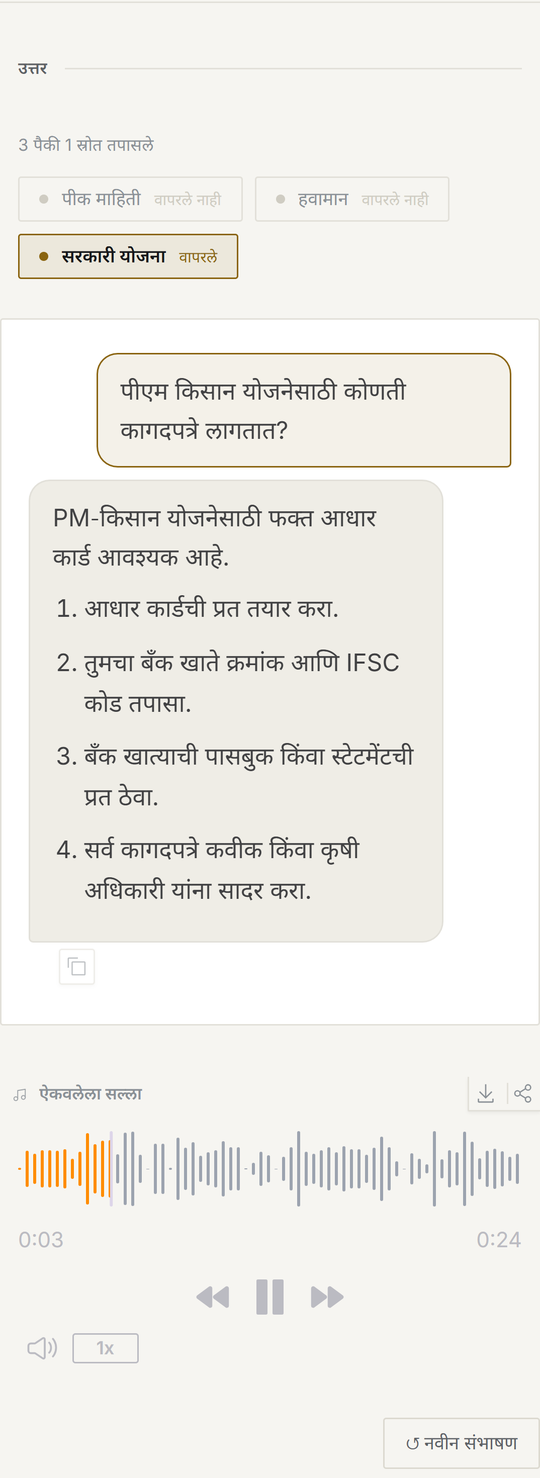
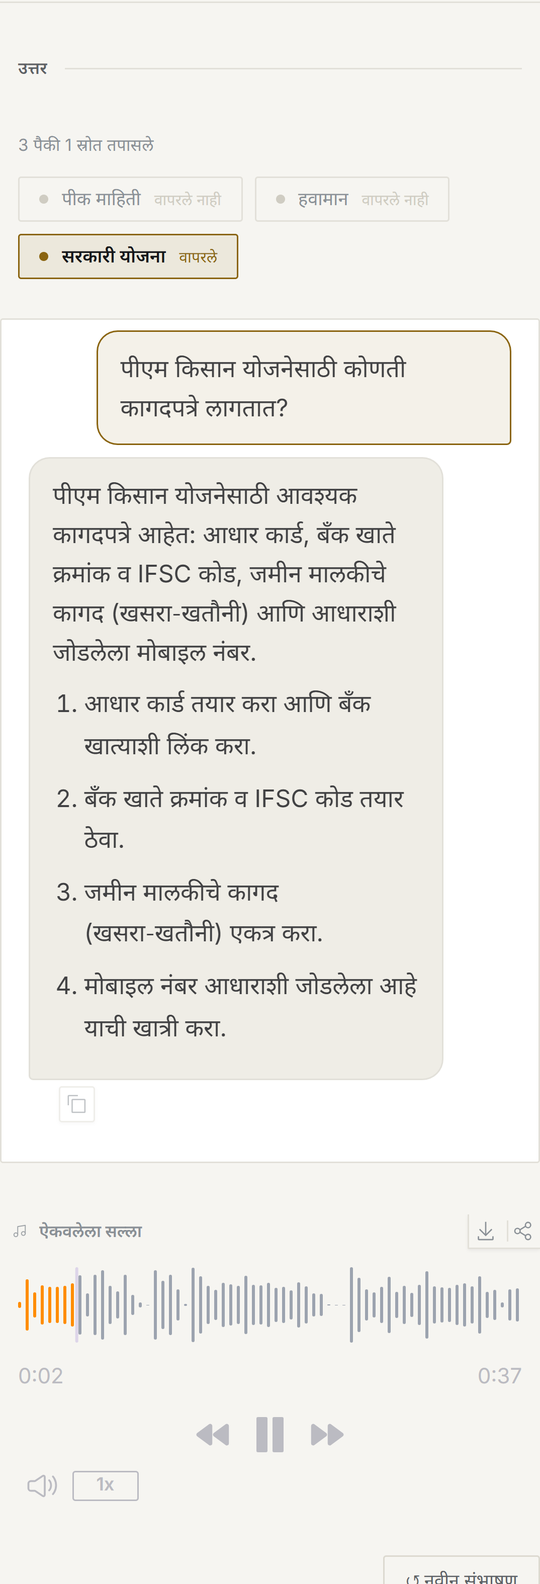
README: show the live app as it really looks
The banner was a custom graphic and the screenshots came from a local full build. Replace them with unedited captures of the Render site — light English, dark Hindi and a phone in Marathi.

diff --git a/README.md b/README.md
@@ -1,6 +1,4 @@
-<p align="center">
-  <img src="assets/banner.svg" alt="Multilingual Agri AI Agent — speak a farming question, hear grounded advice back in your language" width="100%">
-</p>
+<h1 align="center">🌾 Multilingual Agri AI Agent</h1>
 
 <p align="center">
   <a href="https://multilingual-agri-ai-agent.onrender.com"><img alt="Live demo" src="https://img.shields.io/badge/%E2%96%B6%20Live%20demo-Render-D9A441?style=for-the-badge&labelColor=08090A"></a>
@@ -34,6 +32,11 @@
   <a href="#-engineering-notes">Engineering notes</a>
 </p>
 
+<p align="center">
+  <a href="https://multilingual-agri-ai-agent.onrender.com"><img src="assets/screenshots/app-light.png" alt="The live app: language picker, 'Ask in your own language.' headline, microphone, and a conversation where the assistant asks the wheat crop's age, the farmer replies '40 days', and the assistant answers with the fertilizer plan and speaks it" width="100%"></a>
+</p>
+<p align="center"><sub>The live app at <a href="https://multilingual-agri-ai-agent.onrender.com">multilingual-agri-ai-agent.onrender.com</a>, unedited. The assistant needs the wheat's age before it can advise on fertilizer, so it asks; the farmer answers “40 days” and the earlier question is completed from memory.</sub></p>
+
 ---
 
 ## 🌾 Why I built this
@@ -56,18 +59,16 @@ reliable is found, it says so — a wrong dose can cost a farmer a season.
 
 ## 📸 See it in action
 
-<p align="center">
-  <img src="assets/screenshots/desktop-conversation.png" alt="Desktop: the assistant asks the wheat crop's age, the farmer replies '40 days', the assistant answers with the tillering-stage fertilizer plan and speaks it" width="92%">
-</p>
-<p align="center"><sub>The assistant needs the crop's age before it can advise on fertilizer, so it asks. The farmer answers “40 days”, and the earlier question is completed from memory.</sub></p>
+Same live site, two more journeys. The page follows the device's light/dark
+setting, and picking a language switches the whole screen — not just the answers.
 
 <table>
   <tr>
-    <td width="58%" align="center"><img src="assets/screenshots/hindi-dark.png" alt="Hindi conversation in dark mode: will it rain in Pune tomorrow, with onion crop advice" width="100%"></td>
-    <td width="42%" align="center"><img src="assets/screenshots/phone-marathi.png" alt="Phone view in Marathi: documents needed for PM-KISAN, answered from the scheme documents" width="78%"></td>
+    <td width="62%" align="center"><img src="assets/screenshots/app-dark-hindi.png" alt="The live app in dark mode with Hindi selected: the whole page is in Hindi; asked whether it will rain in Pune tomorrow, it answers from the live forecast with onion crop care" width="100%"></td>
+    <td width="38%" align="center"><img src="assets/screenshots/phone-marathi.png" alt="The live app on a phone in Marathi: documents needed for PM-KISAN, answered from the scheme documents and spoken" width="82%"></td>
   </tr>
   <tr>
-    <td align="center"><sub><b>Hindi, dark mode</b> — live Pune forecast via Open-Meteo, answered and spoken in Hindi</sub></td>
+    <td align="center"><sub><b>Hindi, dark mode</b> — the whole page switches language; Pune's live forecast, answered and spoken in Hindi</sub></td>
     <td align="center"><sub><b>Marathi, on a phone</b> — PM-KISAN documents, retrieved from the scheme text</sub></td>
   </tr>
 </table>
